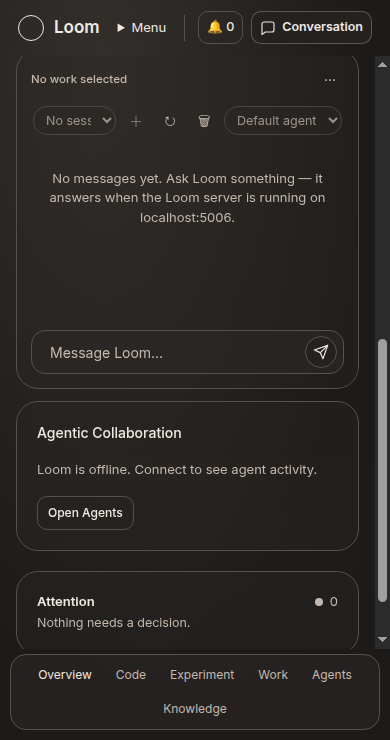
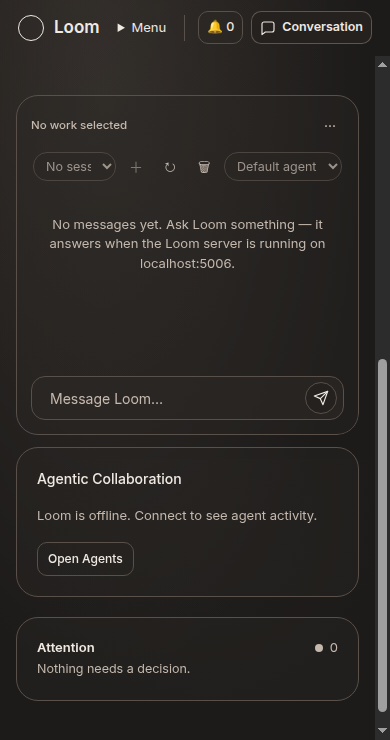
Move all workspace modes into the sphere navigation

diff --git a/src/style.css b/src/style.css
@@ -157,7 +157,7 @@ button, input, textarea, select { accent-color: var(--agent-deep); }
   position: relative;
   height: 100dvh;
   display: grid;
-  grid-template-rows: auto minmax(0, 1fr) auto;
+  grid-template-rows: auto minmax(0, 1fr);
   /* One explicit column, clamped to the viewport: without this the
      implicit column sizes to max-content, and a long nowrap objective
      title widens the whole shell and pushes the inspector off-screen. */
@@ -3941,7 +3941,7 @@ body.right-hidden .scene[data-mode="spatial"] .right-col {
 .workspace-nav { display: flex; flex-wrap: wrap; justify-content: center; gap: 4px; margin: 8px auto 16px; padding: 5px; z-index: 5; border: 1px solid var(--line); border-radius: 24px; background: rgb(var(--theme-surface-rgb) / .5); }
 .workspace-nav button { padding: 8px 16px; border-radius: 20px; color: var(--muted); font-size: 13px; }
 .workspace-nav button[aria-current="page"] { background: var(--reading); color: var(--ink); }
-.orbital-nav { position: absolute; inset: 14% 0 19%; pointer-events: none; }
+.orbital-nav { position: absolute; inset: 14% 0 19%; pointer-events: none; display: block; margin: 0; padding: 0; border: 0; background: none; border-radius: 0; }
 .orbital-nav::before { content: ""; position: absolute; inset: 28% 5%; border: 1px solid var(--line); border-radius: 50%; transform: rotate(-12deg); }
 .orbital-nav button { position: absolute; pointer-events: auto; padding: 7px 10px; font-size: 12px; color: var(--muted); border-radius: 20px; background: var(--bg); border: 1px solid var(--line-subtle); transform: translate(-50%, -50%); }
 .orbital-nav button:hover { color: var(--ink); border-color: var(--agent); }
@@ -4098,3 +4098,9 @@ body.right-hidden .scene[data-mode="spatial"] .right-col {
 :root[data-background="dusk"] .scene[data-mode="spatial"] { background: radial-gradient(ellipse at 28% 12%, rgb(160 120 130 / .18), transparent 65%), var(--bg); }
 :root[data-background="moss"] .scene[data-mode="spatial"] { background: radial-gradient(ellipse at 28% 12%, rgb(120 145 125 / .18), transparent 65%), var(--bg); }
 :root[data-background="night"] .scene[data-mode="spatial"] { background: radial-gradient(ellipse at 28% 12%, rgb(100 110 155 / .18), transparent 65%), var(--bg); }
+
+#workspace-navigation-slot { flex-shrink: 0; width: 100%; }
+#workspace-navigation-slot .workspace-nav { margin: 0 auto 10px; width: fit-content; }
+.orbital-nav button[aria-current="page"] { border-color: var(--agent); }
+
+.workspace-nav.orbital-nav { margin: 0; padding: 0; }

diff --git a/index.html b/index.html
@@ -74,19 +74,20 @@
 
           <!-- Center: workspace -->
           <section class="center" aria-label="Workspace">
+            <div id="workspace-navigation-slot" hidden></div>
             <div id="view-spatial" class="view">
               <div id="spatial-load-error" hidden>
                 <p id="spatial-status" role="status"></p>
                 <button id="spatial-load" class="btn" type="button">Retry loading the bench</button>
               </div>
               <iframe id="spatial-frame" title="Loom state sphere" allow="fullscreen"></iframe>
-              <nav class="orbital-nav" aria-label="Workspace shortcuts">
+              <nav class="workspace-nav orbital-nav" aria-label="Workspace modes">
+                <button type="button" data-workspace-mode="spatial">Overview</button>
+                <button type="button" data-workspace-mode="code">Code</button>
+                <button type="button" data-workspace-mode="experiment">Experiment</button>
                 <button type="button" data-workspace-mode="work">Work</button>
-                <button type="button" data-workspace-mode="experiment">Experiments</button>
-                <button type="button" data-workspace-mode="knowledge" data-workspace-section="evidence">Evidence</button>
                 <button type="button" data-workspace-mode="agents">Agents</button>
                 <button type="button" data-workspace-mode="knowledge">Knowledge</button>
-                <button type="button" data-workspace-mode="code">Code</button>
               </nav>
               <p id="spatial-state-caption" class="spatial-state-caption" role="status">Checking Loom…</p>
             </div>
@@ -336,14 +337,6 @@
           <div class="scrim" id="scrim" hidden></div>
         </div>
 
-        <nav class="workspace-nav" aria-label="Workspace modes">
-          <button type="button" data-workspace-mode="spatial">Overview</button>
-          <button type="button" data-workspace-mode="code">Code</button>
-          <button type="button" data-workspace-mode="experiment">Experiment</button>
-          <button type="button" data-workspace-mode="work">Work</button>
-          <button type="button" data-workspace-mode="agents">Agents</button>
-          <button type="button" data-workspace-mode="knowledge">Knowledge</button>
-        </nav>
         <!-- Water reflection band: atmosphere for the Experiment overview only -->
         <div class="water" aria-hidden="true"></div>
       </div>

diff --git a/src/workbench-layout.test.ts b/src/workbench-layout.test.ts
@@ -91,16 +91,19 @@ it("keeps the inspector tab visible on other modes and the conversation on Spati
   expect(node("body").classList.contains("right-open")).toBe(false);
 });
 
-it("provides persistent navigation and six accessible orbital shortcuts", () => {
-  expect(indexHtml).toContain('class="workspace-nav"');
-  expect(indexHtml).toContain('aria-label="Workspace shortcuts"');
-  expect(indexHtml.match(/data-workspace-mode=/g)).toHaveLength(13);
+it("places all six workspace modes in a single sphere navigation", () => {
+  expect(indexHtml).toContain('class="workspace-nav orbital-nav"');
+  expect(indexHtml).toContain('aria-label="Workspace modes"');
+  expect(indexHtml.match(/data-workspace-mode=/g)).toHaveLength(7);
   expect(source).toContain('button.dataset.workspaceMode as Mode');
 });
 
 it("keeps chat and context visible together in Spatial, including narrow widths", async () => {
   for (const width of [390, 900, 1280, 1600]) {
     const { node, api } = await shell(width);
+    const navigation = node(".workspace-nav");
+    expect(navigation.parentElement).toBe(node("view-spatial"));
+    expect(navigation.classList.contains("orbital-nav")).toBe(true);
     const chat = node("chat-panel");
     expect(chat.parentElement).toBe(node("spatial-chat-slot"));
     expect(chat.hidden).toBe(false);
@@ -109,6 +112,8 @@ it("keeps chat and context visible together in Spatial, including narrow widths"
     expect(chat.hidden).toBe(false);
     expect(api.expandChatOnReply()).toBe(false);
     api.setMode("code");
+    expect(navigation.parentElement).toBe(node("workspace-navigation-slot"));
+    expect(navigation.classList.contains("orbital-nav")).toBe(false);
     expect(chat.parentElement).toBe(node("right-col"));
     api.setMode("spatial");
     expect(node("chat-panel")).toBe(chat);

diff --git a/src/main.ts b/src/main.ts
@@ -3888,6 +3888,12 @@ function applyRightPane() {
   const contextPane = document.getElementById("inspector-context");
   const chatPane = document.getElementById("chat-panel");
   const spatial = mode === "spatial";
+  const navigation = document.querySelector<HTMLElement>(".workspace-nav");
+  const navigationSlot = document.getElementById("workspace-navigation-slot");
+  const navigationHost = document.getElementById(spatial ? "view-spatial" : "workspace-navigation-slot");
+  if (navigation && navigationHost && navigation.parentElement !== navigationHost) navigationHost.append(navigation);
+  navigation?.classList.toggle("orbital-nav", spatial);
+  if (navigationSlot) navigationSlot.hidden = spatial;
   const destination = document.getElementById(spatial ? "spatial-chat-slot" : "right-col");
   if (chatPane && destination && chatPane.parentElement !== destination) destination.append(chatPane);
   if (contextPane) {
@@ -8522,7 +8528,6 @@ async function init() {
   document.querySelectorAll<HTMLButtonElement>("[data-workspace-mode]").forEach(button => {
     button.addEventListener("click", () => {
       setMode(button.dataset.workspaceMode as Mode);
-      if (button.dataset.workspaceSection === "evidence") knowledge?.showEvidence?.();
       document.querySelector<HTMLElement>('.workspace-nav [aria-current="page"]')?.focus();
     });
   });

diff --git a/docs/babylon-migration/workspace-repair.md b/docs/babylon-migration/workspace-repair.md
@@ -49,3 +49,18 @@ pixel identity with the concept image. Actual Tauri-window pixels, hardware GPU
 cost, and live held-tool/model interaction were not exercised. Existing gateway
 and runtime policy work remains in the separate Loom project. Repository cleanup
 and final deletion of historical Unity assets are outside this UI repair.
+
+## Follow-up: modes belong to the sphere — 17 November 2026
+
+At the user's request, the separate bottom bar and old shortcut copy were
+consolidated into one navigation element with exactly Overview, Code, Experiment,
+Work, Agents and Knowledge. In Spatial it is positioned around the sphere. In
+other modes the same element moves above the workspace, preserving a way back
+to Overview. Evidence remains available inside Knowledge. No duplicate menu or
+second set of handlers was added. The shell now has only header/main rows.
+
+Updated tests assert both navigation placements and all six labels. Production
+browser evidence was refreshed for desktop, light theme, tablet and mobile.
+Required checks: frontend 144; Tauri 145 passed / 2 ignored; native 22; build and
+src-tauri fmt passed. Legacy Unity recompile remains blocked with exit 12 because
+the Editor is not running; this is not the active renderer.
